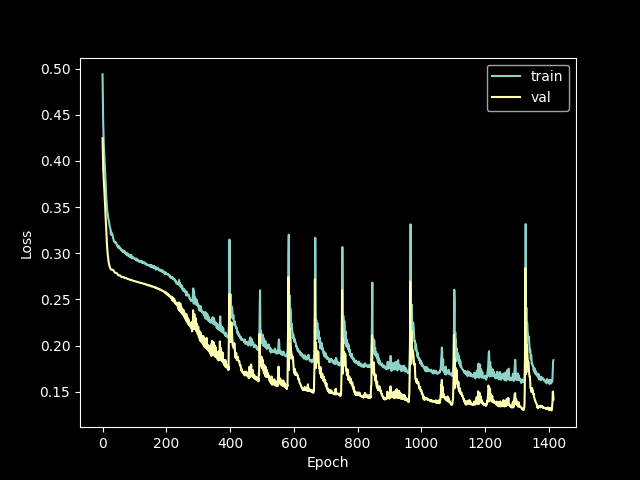
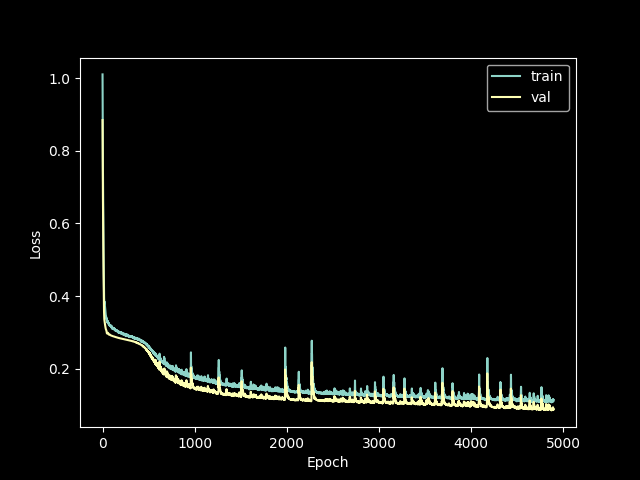
last_update

diff --git a/pinn_training.py b/pinn_training.py
@@ -15,14 +15,14 @@ net._model_summary()
 
 ########################################################### POINTS DEFINITION ###########################################################
 #########################################################################################################################################
-N_i,N_b,N_r = 10000,10000,10000
-
+N_i,N_b,N_r = 2000,2000,20000
+l_b,u_b = 0,1
 t_i = torch.zeros(N_i,1)
-x_i = torch.linspace(0,1,N_i).view(N_i,1)
+x_i = torch.linspace(l_b,u_b,N_i).view(N_i,1)
 #u_0 = torch.sin(np.pi*x_0)
 u_i = t_i + 1*(torch.sin(np.pi*x_i) + 0.5*torch.sin(4*np.pi*x_i))
 
-t_b = torch.linspace(0,1,N_b).view(N_b,1)
+t_b = torch.linspace(l_b,u_b,N_b).view(N_b,1)
 #x_b evenly distributed in 0 or 1 with total N_b points
 x_b = torch.bernoulli(0.5*torch.ones(N_b,1))
 u_b = torch.zeros(N_b,1)
@@ -30,7 +30,35 @@ u_b = torch.zeros(N_b,1)
 t_r = torch.rand(N_r,1)
 x_r = torch.rand(N_r,1)
 
+#Normalize data with min max
+def normalize_data(x_r,t_r,
+        u_b,x_b,t_b,
+        u_i,x_i,t_i):
+    x_r,t_r = 2*(x_r-x_r.min())/(x_r.max()-x_r.min())-1,2*(t_r-t_r.min())/(t_r.max()-t_r.min())-1
+    x_b,t_b = 2*(x_b-x_b.min())/(x_b.max()-x_b.min())-1,2*(t_b-t_b.min())/(t_b.max()-t_b.min())-1
+    x_i,t_i = 2*(x_i-x_i.min())/(x_i.max()-x_i.min())-1,-1*torch.ones(N_i,1)
+    return x_r,t_r,u_b,x_b,t_b,u_i,x_i,t_i
 
+def unnormalize_data(x_r,t_r,
+        u_b,x_b,t_b,
+        u_i,x_i,t_i,
+        x_r_min,x_r_max,
+        t_r_min,t_r_max,
+        u_b_min,u_b_max,
+        x_b_min,x_b_max,
+        t_b_min,t_b_max,
+        u_i_min,u_i_max,
+        x_i_min,x_i_max,
+        t_i_min,t_i_max):
+    x_r,t_r = x_r*(x_r_max-x_r_min)+x_r_min,t_r*(t_r_max-t_r_min)+t_r_min
+    u_b,x_b,t_b = u_b*(u_b_max-u_b_min)+u_b_min,x_b*(x_b_max-x_b_min)+x_b_min,t_b*(t_b_max-t_b_min)+t_b_min
+    u_i,x_i,t_i = u_i*(u_i_max-u_i_min)+u_i_min,x_i*(x_i_max-x_i_min)+x_i_min,t_i*(t_i_max-t_i_min)+t_i_min
+    return x_r,t_r,u_b,x_b,t_b,u_i,x_i,t_i
+
+x_r,t_r,u_b,x_b,t_b,u_i,x_i,t_i = normalize_data(x_r,t_r,
+        u_b,x_b,t_b,
+        u_i,x_i,t_i)
+print("Training points",x_i.min(),x_i.max(),t_i.min(),t_i.max())
 ############################################################## POINTS PLOTTING #############################################################
 ############################################################################################################################################
 def plot_training_points(t_0, t_b, t_r, x_0, x_b, x_r, u_0, u_b):
@@ -41,8 +69,8 @@ def plot_training_points(t_0, t_b, t_r, x_0, x_b, x_r, u_0, u_b):
     """
     fig = plt.figure(figsize=(9, 6))
     ax = fig.add_subplot(111)
-    ax.scatter(t_0, x_0[:, 0], c=u_0, marker='X', vmin=-1, vmax=1)
-    ax.scatter(t_b, x_b[:, 0], c=u_b, marker='X', vmin=-1, vmax=1)
+    ax.scatter(t_0, x_0[:, 0], c=u_0, marker='X')
+    ax.scatter(t_b, x_b[:, 0], c=u_b, marker='X')
     ax.scatter(t_r, x_r[:, 0], c='r', marker='.', alpha=0.1)
     ax.set_xlabel('$t$')
     ax.set_ylabel('$x1$')
@@ -158,7 +186,7 @@ else:
 
 ########################################################### PLOTTING FUNCTIONS ###########################################################
 ##########################################################################################################################################
-def plot1dgrid_real(lb,ub,N,model,k,with_rnn=False):
+def plot1dgrid_real(lb,ub,N,model,k,with_rnn=False,show=False):
     """Same for the real solution"""
     model = model.net
     x1space = np.linspace(lb[0], ub[0], N)
@@ -184,11 +212,15 @@ def plot1dgrid_real(lb,ub,N,model,k,with_rnn=False):
 
     fig = plt.figure()
     ax = fig.add_subplot(111)
-    ax.scatter(T,X1,c=U, marker='X', vmin=-1, vmax=1)
+    ax.scatter(T,X1,c=U, marker='X')
     ax.set_xlabel('$t$')
     ax.set_ylabel('$x1$')
-    plt.savefig(f'results/generated_{k}')
-    plt.close()
+    if show:
+        plt.show()
+    else:
+        plt.savefig(f'results/generated_{k}')
+        plt.close()
+   
 
 #Plot train and val losses on same figure
 def plot_loss(train_losses,val_losses):
@@ -225,7 +257,7 @@ def train(model,train_data,val_data,
         #Plot_losses
         plot_loss(losses,val_losses)
 
-       
+      
 def train_rnn(model,train_data,val_data,epochs):
     epochs = tqdm(range(epochs),desc="Training")
     losses = []
@@ -246,11 +278,15 @@ def train_rnn(model,train_data,val_data,epochs):
             model.net.save_weights(f'weights/weights_{epoch}')
         plot_loss(losses,val_losses)
 
-lb = [0,0]
+lb = [-1,-1]
 ub = [1,1]
-N = 70
+N = 1000
+
 with torch.backends.cudnn.flags(enabled=False):
     if with_rnn:
         train_rnn(net,train_data,val_data,epochs=10000)
     else:
         train(net,train_data,val_data,epochs=10000)
+
+net.net.load_state_dict(torch.load("model_9000.pt"))
+plot1dgrid_real(lb,ub,N,net,10000,show=True)

diff --git a/network.py b/network.py
@@ -16,13 +16,13 @@ class Scaling_layer(nn.Module):
         self.ub = torch.tensor([1.0,1.0]).to(device)
 
     def forward(self, x):
-        return 2.0*(x - self.lb)/(self.ub - self.lb) - 1.0
+        return 2*(x - self.lb)/(self.ub - self.lb)-1
 
 # Réseau de neurones
 class network(nn.Module):
     def __init__(self):
         super().__init__()
-        self.num_neurons = 32
+        self.num_neurons = 64
         self.num_layers = 4
         self.scaling_layer = Scaling_layer()
         self.linear_input = nn.Linear(2,self.num_neurons)
@@ -38,6 +38,7 @@ class network(nn.Module):
             x = self.activation(linear(x))
             x = self.dropout(x)
         x = self.linear_output(x)
+        x = torch.sin(x)
         return x
 
 class RNN(nn.Module):
@@ -119,7 +120,7 @@ class PINN():
         loss_bords = torch.mean((u_pred_b-u_b_label)**2)
         u_pred_i = self.net(x_i,t_i)
         loss_init = torch.mean((u_pred_i-u_i_label)**2)
-        return loss_residual + loss_bords + loss_init
+        return 0.1*loss_residual + loss_bords + loss_init
 
     def loss_fn(self,x_r,t_r,
                 u_b,x_b,t_b,

diff --git a/first_nn.py b/first_nn.py
@@ -29,6 +29,7 @@ class NN(nn.Module):
         last_layer = self.model(x)
         return F.log_softmax(last_layer,dim=1)
 
+
 # Train step
 def train_step(model,loss_fn,opt,x,y):
     opt.zero_grad()
